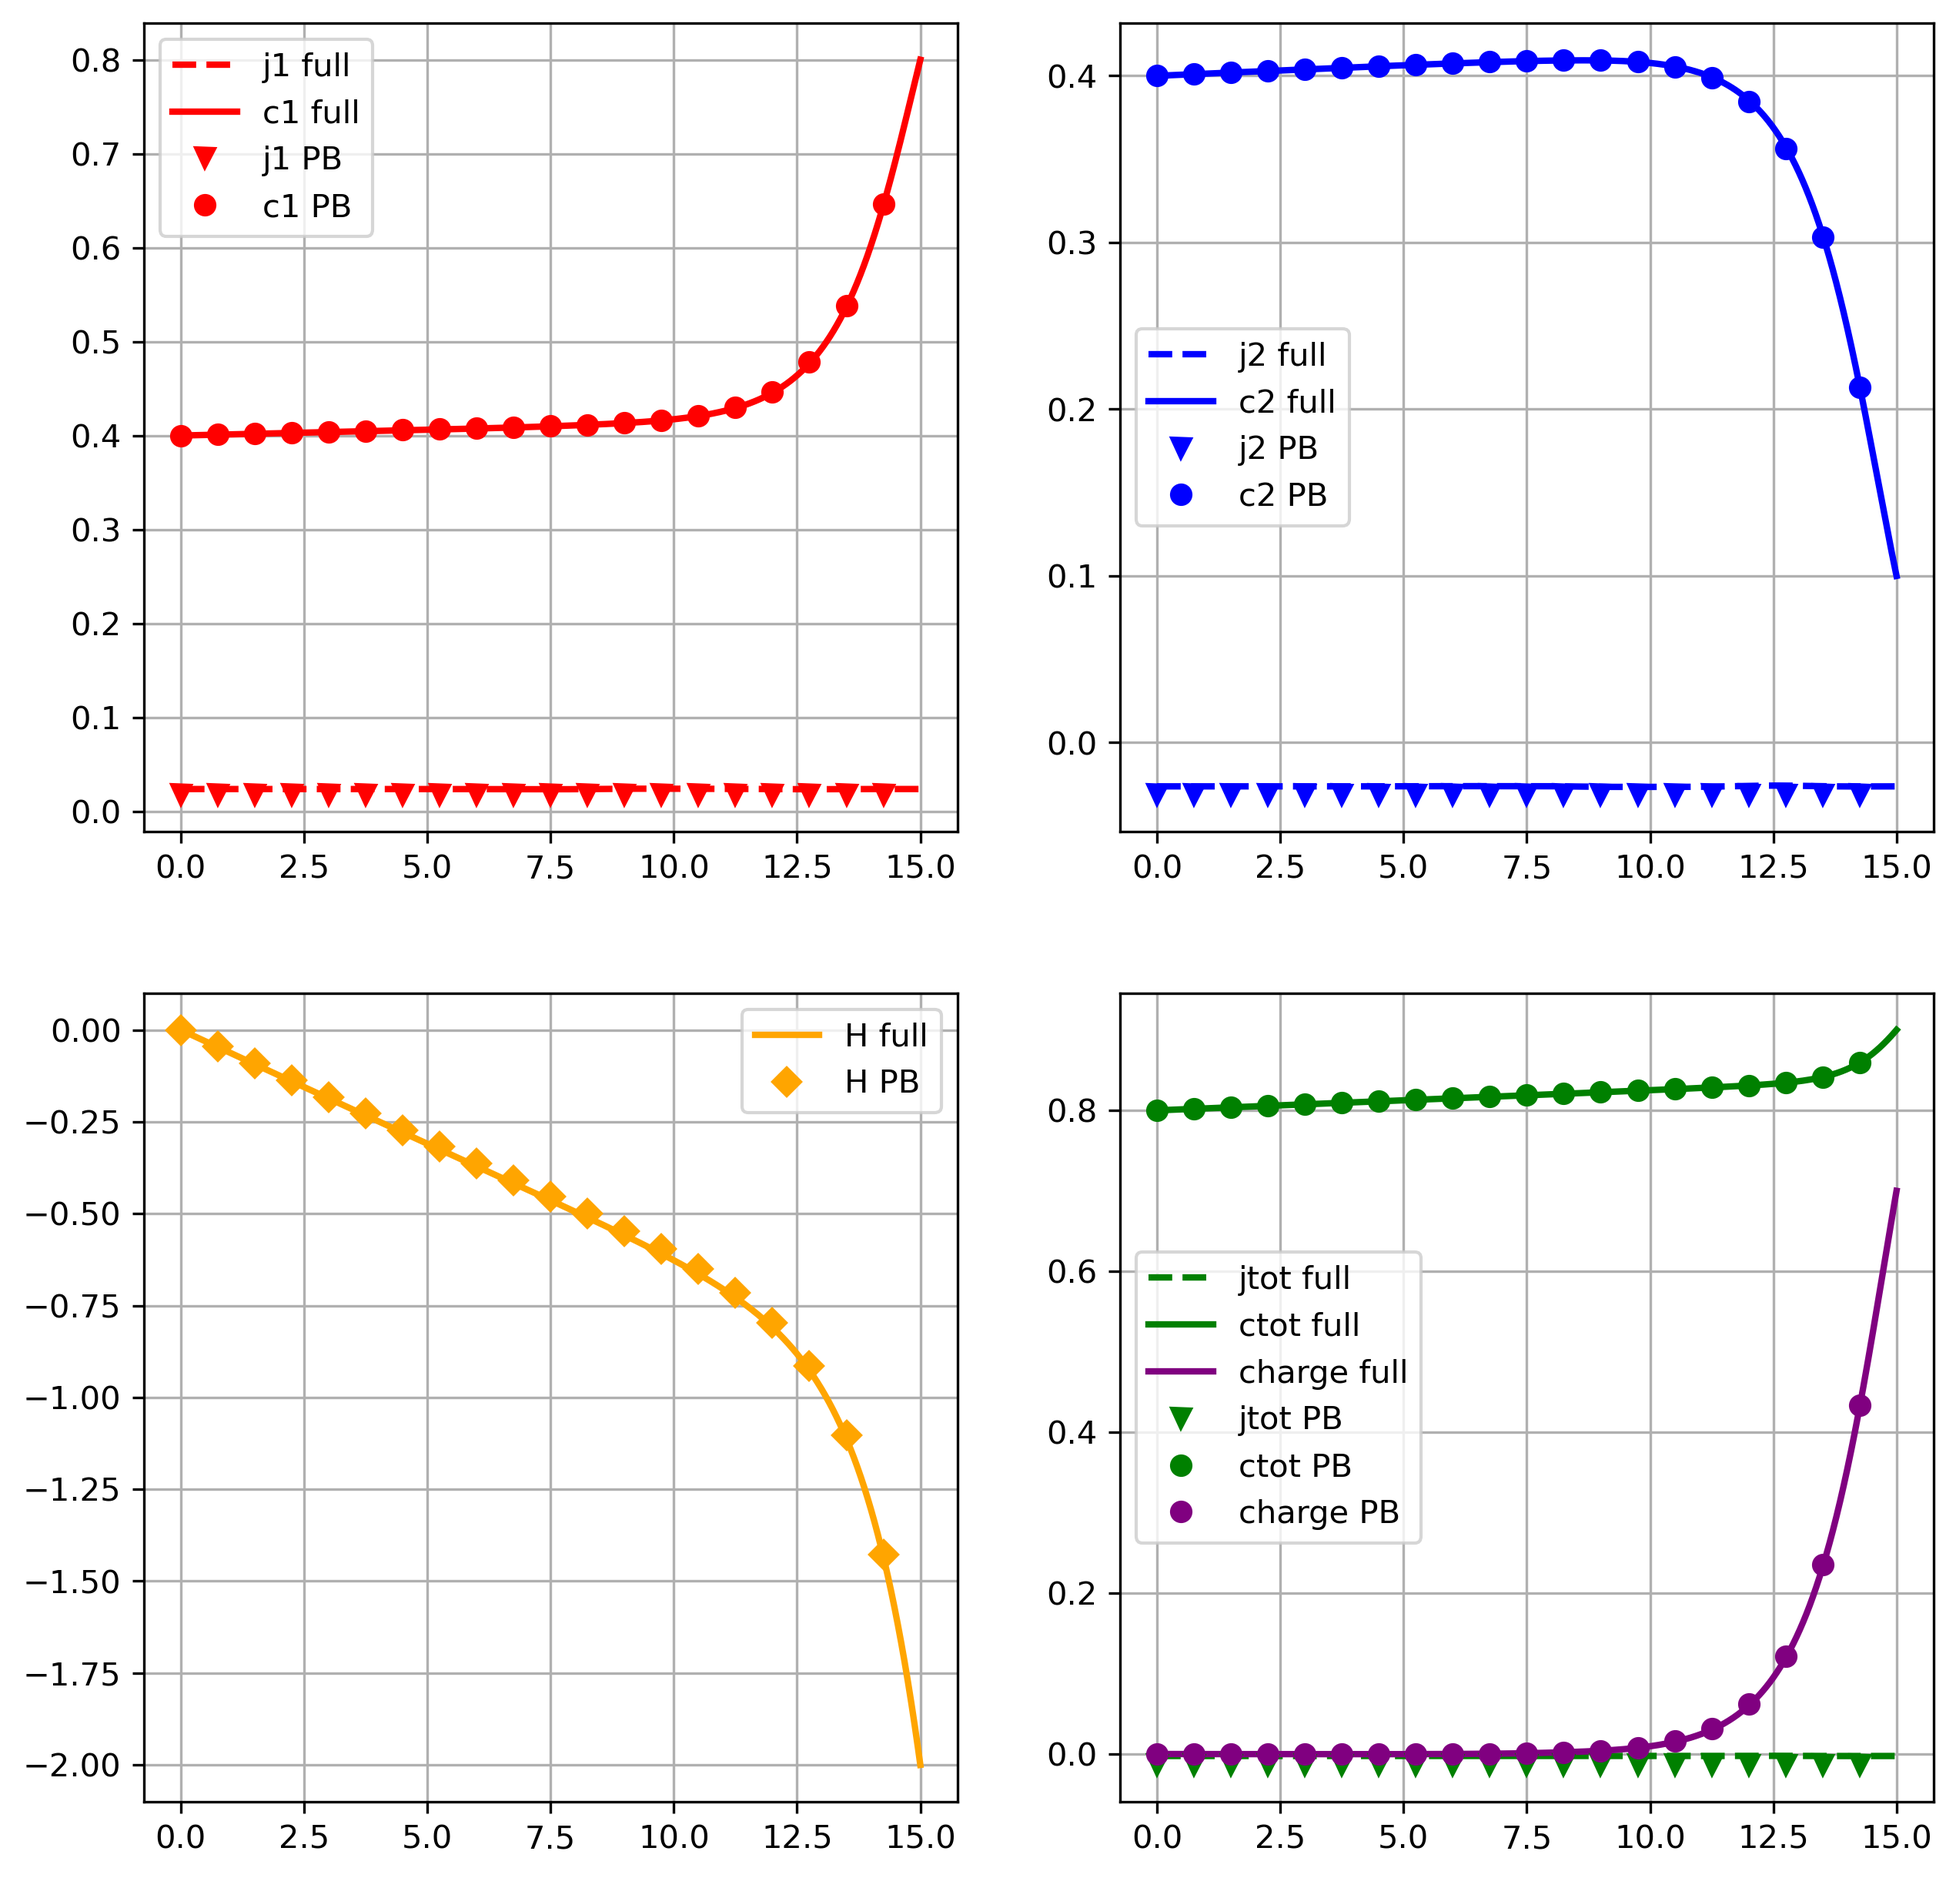
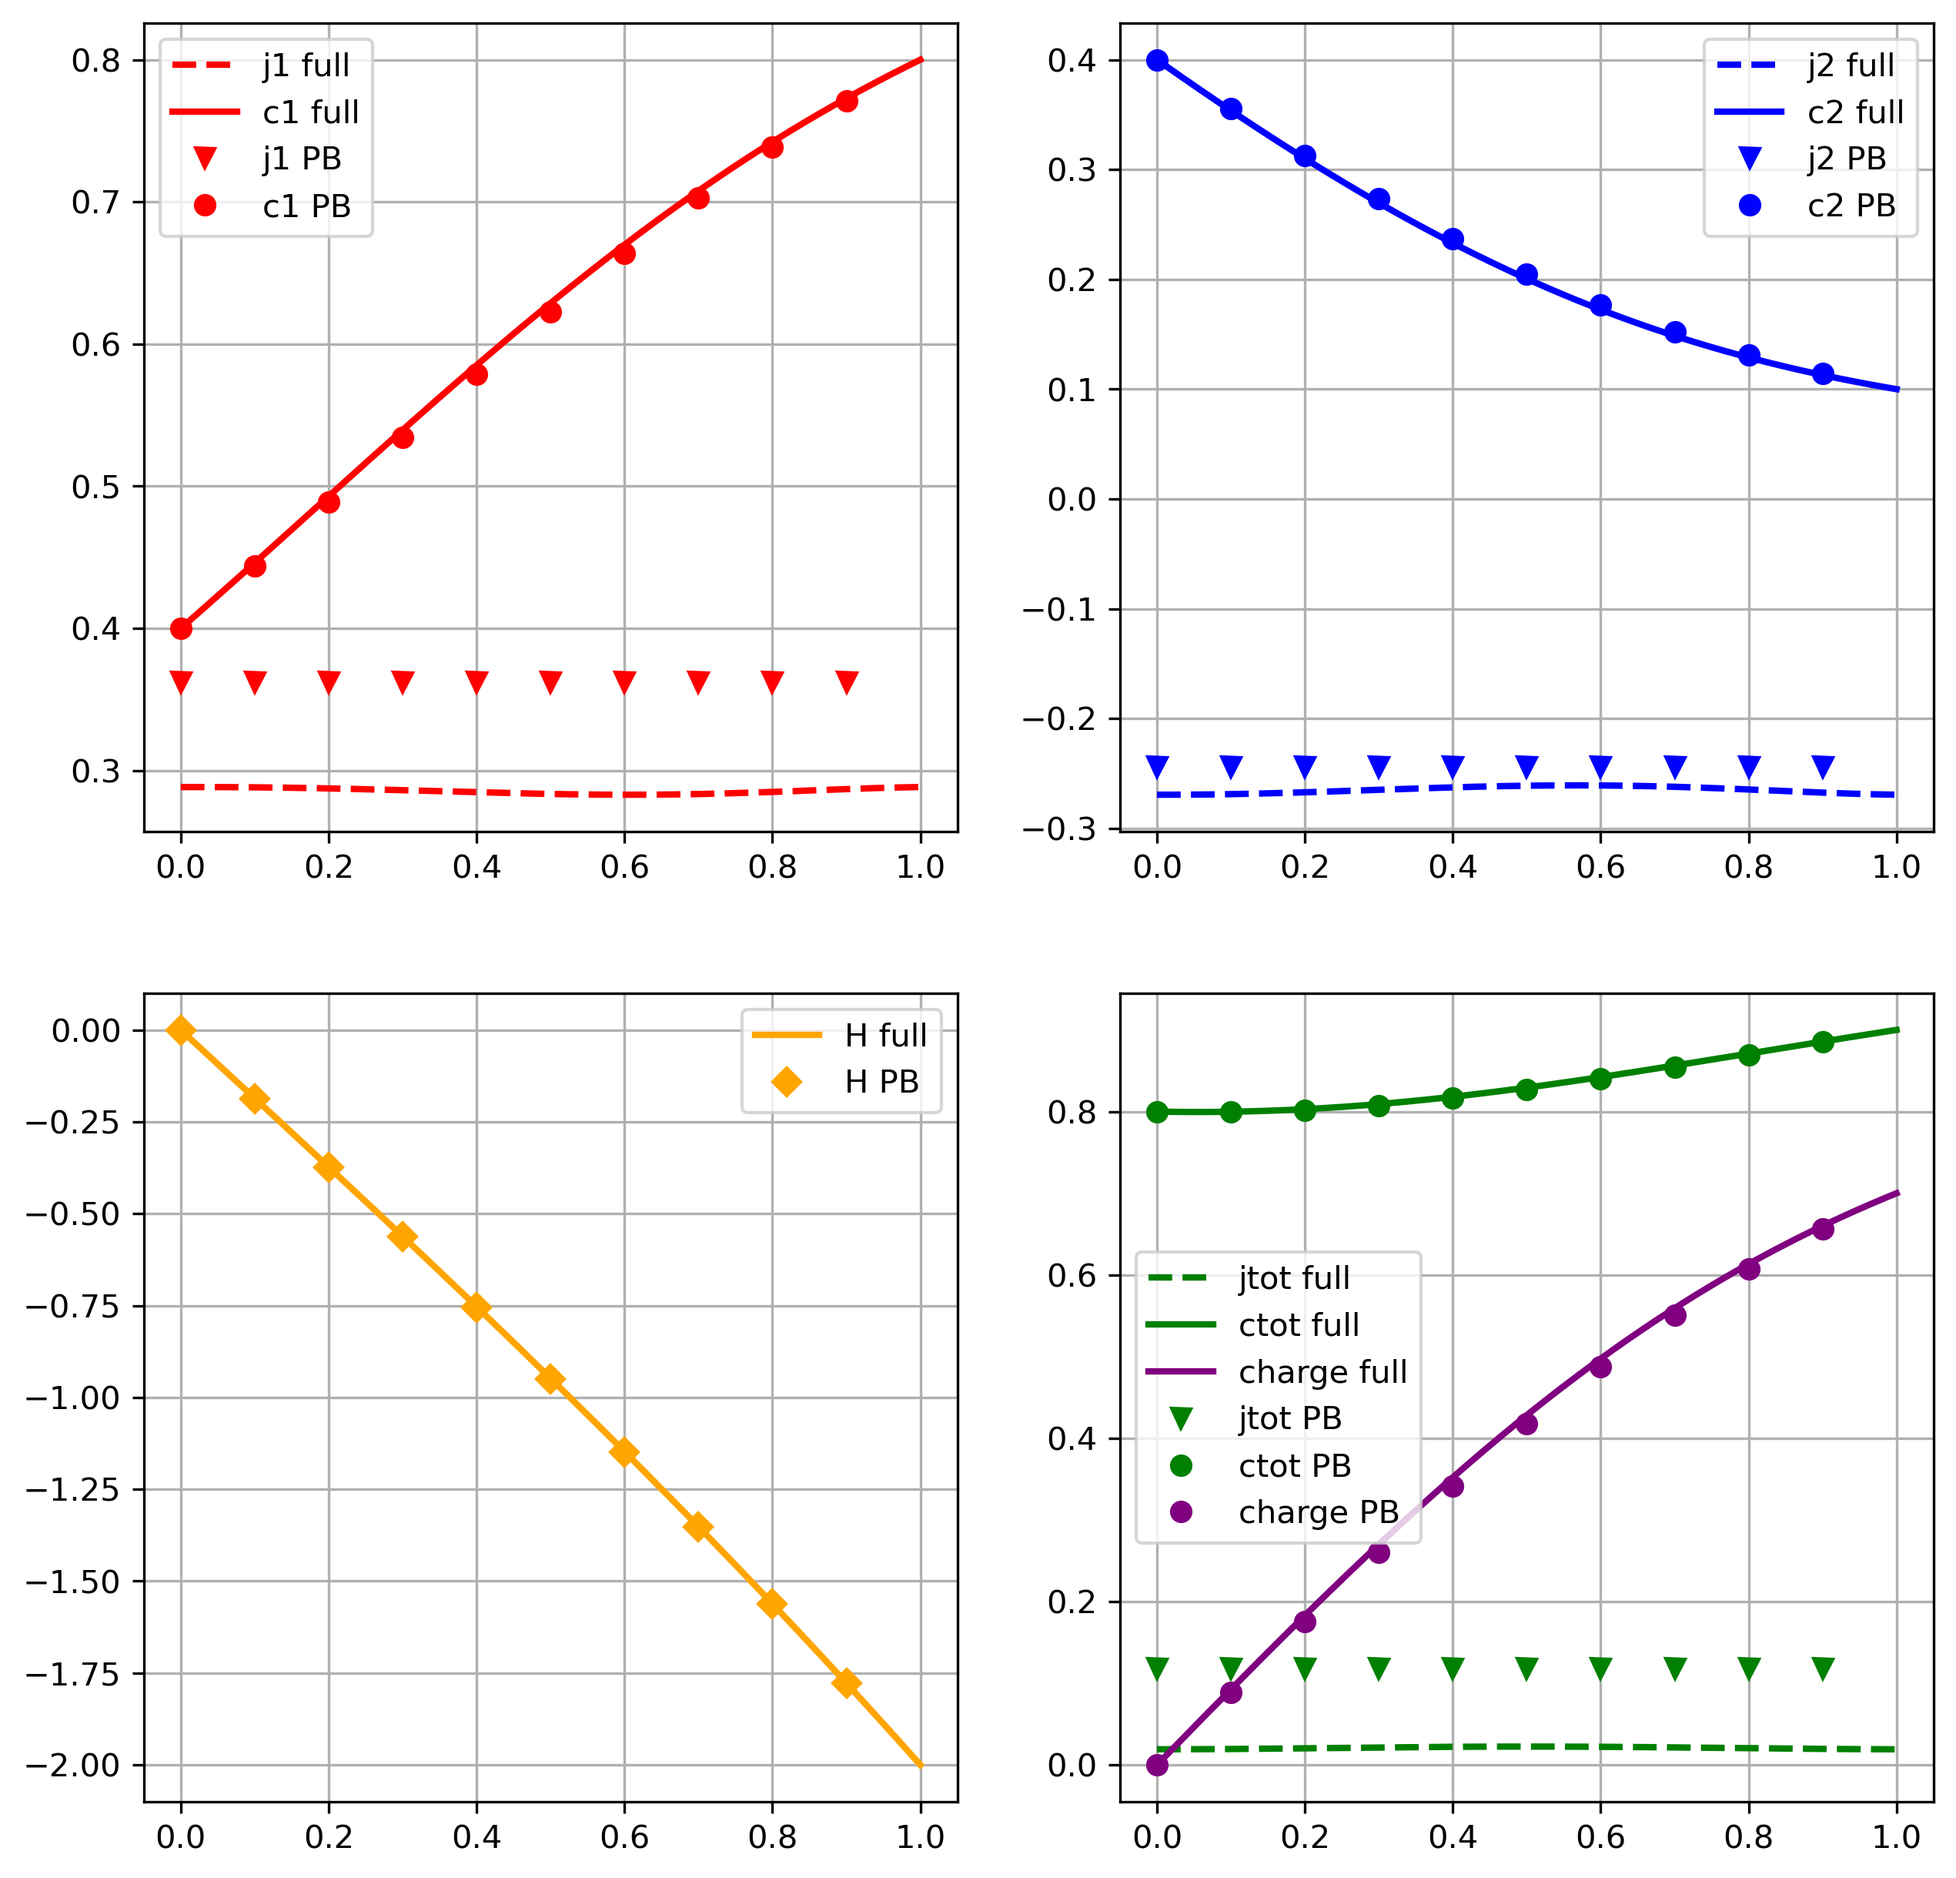
sync

diff --git a/8_mPNP_1D.py b/8_mPNP_1D.py
@@ -65,8 +65,8 @@ def simulate_mPNP(Vapp, Vbulk, concentrations, plot_flag):
     c_bulk_scaled = c_bulk/c_char
     Vapp_scaled = Vapp/phi_char
     V_bulk_scaled = V_bulk/phi_char
-    L_scaled = L/x_char
-    #L_scaled = 35
+    # L_scaled = L/x_char
+    L_scaled = 1
     print(x_char)
 
 
@@ -75,7 +75,7 @@ def simulate_mPNP(Vapp, Vbulk, concentrations, plot_flag):
         
     # Define Mesh
 
-    domain = mesh.create_interval(comm=MPI.COMM_WORLD, points=(0.0, L_scaled), nx=100000)
+    domain = mesh.create_interval(comm=MPI.COMM_WORLD, points=(0.0, L_scaled), nx=50000)
     topology, geometry = domain.topology, domain.geometry
     eps = ufl.Constant(domain, np.finfo(float).eps)
     # cluster = ipp.Cluster(engines="mpi", n=1)
@@ -107,20 +107,20 @@ def simulate_mPNP(Vapp, Vbulk, concentrations, plot_flag):
 
 
     # Initial conditions
-    # def c0_init(x):
-    #     values = np.zeros((1, x.shape[1]))
-    #     values[0] = c_bulk_scaled
-    #     return values
+    def c0_init(x):
+        values = np.zeros((1, x.shape[1]))
+        values[0] = c_bulk_scaled
+        return values
 
 
-    # def V0_init(x):
-    #     values = np.zeros((1, x.shape[1]))
-    #     values[0] = 0
-    #     return values
+    def V0_init(x):
+        values = np.zeros((1, x.shape[1]))
+        values[0] = 0
+        return values
 
-    # u.sub(0).interpolate(c0_init)
-    # u.sub(1).interpolate(c0_init)
-    # u.sub(2).interpolate(V0_init)
+    u.sub(0).interpolate(c0_init)
+    u.sub(1).interpolate(c0_init)
+    u.sub(2).interpolate(V0_init)
 
     n = ufl.FacetNormal(domain)
     def boundary_R(x):
@@ -156,8 +156,8 @@ def simulate_mPNP(Vapp, Vbulk, concentrations, plot_flag):
     # F2 = -ufl.inner(ufl.grad(c2)[0], v2) * ufl.dx + ufl.inner(c2 * ufl.grad(phi)[0], v2) * ufl.dx - ufl.inner((c2/(1-c1-c2))*(ufl.grad(c1)[0]+ ufl.grad(c2)[0]), v2)*ufl.dx
 
     F7 = ufl.inner(ufl.grad(phi), ufl.grad(vphi)) * ufl.dx - ufl.inner((c1-c2), vphi) * ufl.dx
-    F8 = ufl.inner(-ufl.grad(c1) - c1 * ufl.grad(phi) - (c1/(1-c1-c2))*(ufl.grad(c1)+ ufl.grad(c2)), ufl.grad(v1)) * ufl.dx #- ufl.dot(ufl.grad(ufl.exp(phi)-ufl.exp(-phi)), n)*v1*ds(1) #- ufl.dot(ufl.grad(ufl.exp(phi)-ufl.exp(-phi)), n)*v1*ds(2)
-    F9 = ufl.inner(-ufl.grad(c2) + c2 * ufl.grad(phi) - (c2/(1-c1-c2))*(ufl.grad(c1)+ ufl.grad(c2)) , ufl.grad(v2)) * ufl.dx #- ufl.dot(ufl.grad(ufl.exp(phi)-ufl.exp(-phi)), n)*v2*ds(1) #- ufl.dot(ufl.grad(ufl.exp(phi)-ufl.exp(-phi)), n)*v2*ds(2)
+    F8 = ufl.inner(-ufl.grad(c1) - c1 * ufl.grad(phi) - (c1/(1-c1-c2))*(ufl.grad(c1)+ ufl.grad(c2)), ufl.grad(v1)) * ufl.dx #- fem.Constant(domain,default_scalar_type(1))*v1*ds(1) #- ufl.dot(ufl.grad(ufl.exp(phi)-ufl.exp(-phi)), n)*v1*ds(2)
+    F9 = ufl.inner(-ufl.grad(c2) + c2 * ufl.grad(phi) - (c2/(1-c1-c2))*(ufl.grad(c1)+ ufl.grad(c2)) , ufl.grad(v2)) * ufl.dx #- fem.Constant(domain,default_scalar_type(1))*v2*ds(1) #- ufl.dot(ufl.grad(ufl.exp(phi)-ufl.exp(-phi)), n)*v2*ds(2)
     F8_SS =  ufl.inner(-ufl.grad(c1) - c1 * ufl.grad(phi) +c1*(c1-c2)*ufl.grad(phi), ufl.grad(v1)) * ufl.dx
     F9_SS = ufl.inner(-ufl.grad(c2) +c2*ufl.grad(phi) +c2*(c1-c2)*ufl.grad(phi), ufl.grad(v2))*ufl.dx
     F_SS = F7 + F8_SS + F9_SS
@@ -169,13 +169,13 @@ def simulate_mPNP(Vapp, Vbulk, concentrations, plot_flag):
     V_split = V.sub(2)
     V_potential, _ = V_split.collapse()
     ud = fem.Function(V_potential)
-    ud.interpolate(lambda x : x[0]*0 + Vapp_scaled)
-    dofs_bulk = fem.locate_dofs_geometrical((V_split,V_potential), boundary_R)
+    ud.interpolate(lambda x : x[0]*0 + V_bulk_scaled)
+    dofs_bulk = fem.locate_dofs_geometrical((V_split,V_potential), boundary_L)
     bc_potential_bulk = fem.dirichletbc(ud, dofs_bulk, V_split)
 
     ud = fem.Function(V_potential)
-    ud.interpolate(lambda x : x[0]*0 + V_bulk_scaled )
-    dofs_surface = fem.locate_dofs_geometrical((V_split,V_potential),boundary_L)
+    ud.interpolate(lambda x : x[0]*0 + Vapp_scaled )
+    dofs_surface = fem.locate_dofs_geometrical((V_split,V_potential),boundary_R)
     bc_potential_surface = fem.dirichletbc(ud, dofs_surface, V_split)
 
 
